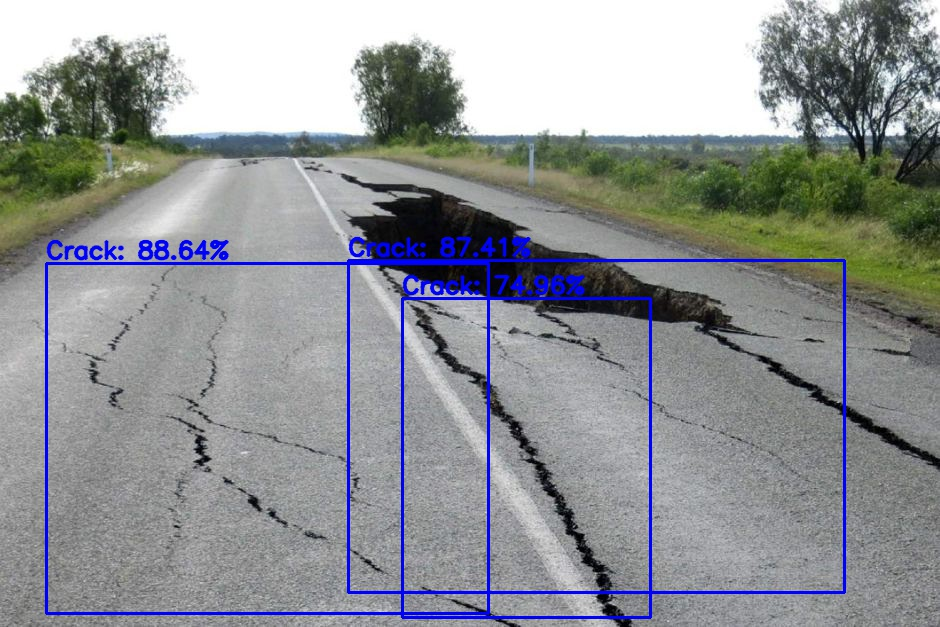
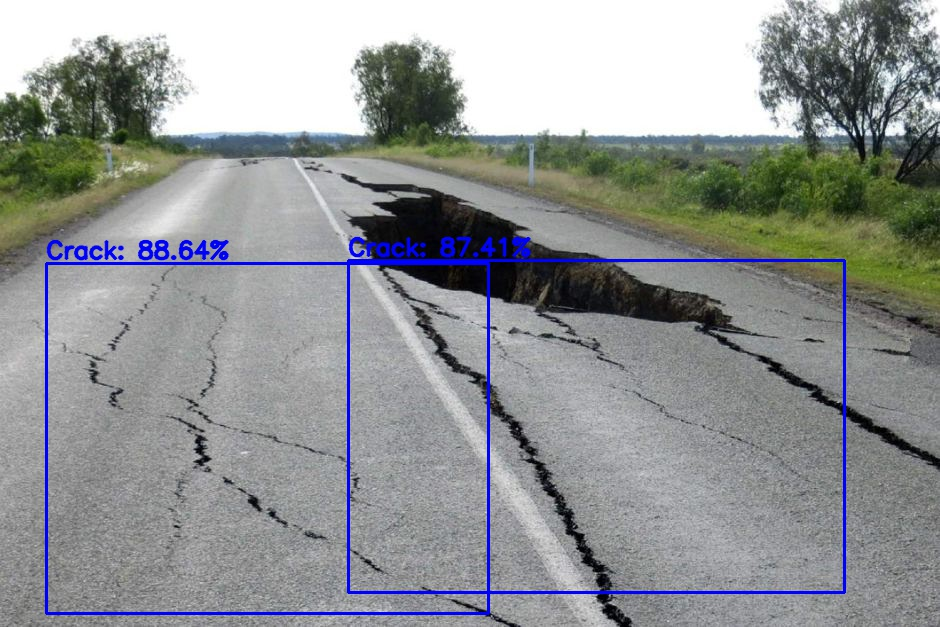
Update FPS calculating

Changed region(s): [[0.4011, 0.4242, 0.7096, 1.0]]

diff --git a/End_to_End_Crack_Detection/detect.py b/End_to_End_Crack_Detection/detect.py
@@ -1,6 +1,7 @@
 import torch
 import argparse
 import cv2
+import time
 import detect_utils
 from PIL import Image
 from detect_utils import get_model
@@ -19,9 +20,16 @@ device = torch.device('cuda' if torch.cuda.is_available() else 'cpu')
 
 image = Image.open(args['input'])
 model.eval().to(device)
-boxes, classes, labels, score = detect_utils.predict(image, model, device, 0.6)
+# get the start time
+start_time = time.time()
+boxes, classes, labels, score = detect_utils.predict(image, model, device, 0.8)
 image = detect_utils.draw_boxes(boxes, classes, labels, score, image)
+# get the end time
+end_time = time.time()
+# get the fps
+fps = 1 / (end_time - start_time)
 cv2.imshow('Image', image)
+print(fps)
 save_name = f"{args['input'].split('/')[-1].split('.')[0]}_{args['min_size']}"
 cv2.imwrite(f"outputs/{save_name}.jpg", image)
 cv2.waitKey(0)

diff --git a/End_to_End_Crack_Detection/detect_utils.py b/End_to_End_Crack_Detection/detect_utils.py
@@ -29,7 +29,7 @@ def predict(image, model, device, detection_threshold):
     # print the results individually
     # print(f"BOXES: {outputs[0]['boxes']}")
     # print(f"LABELS: {outputs[0]['labels']}")
-    print(f"SCORES: {outputs[0]['scores']}")
+    # print(f"SCORES: {outputs[0]['scores']}")
     # get all the predicited class names
     pred_classes = [coco_names[i] for i in outputs[0]['labels'].cpu().numpy()]
     # get score for all the predicted objects
